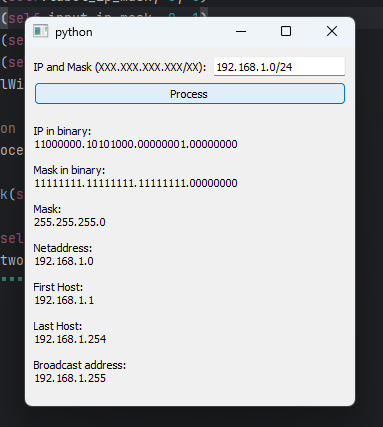
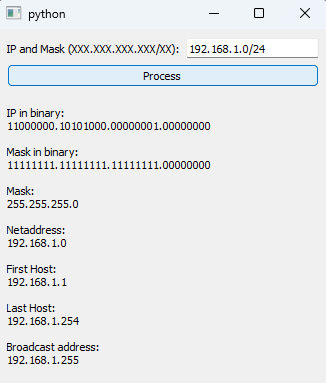
update

diff --git a/README.md b/README.md
@@ -51,7 +51,7 @@ calculations. It allows users to input an IP address and subnet mask
 
 ## Example
 
-![Screenshot of the application](Optional: Add a screenshot here)
+![Example of how to use the program](images/example.png)
 
 ## Contributing
 
